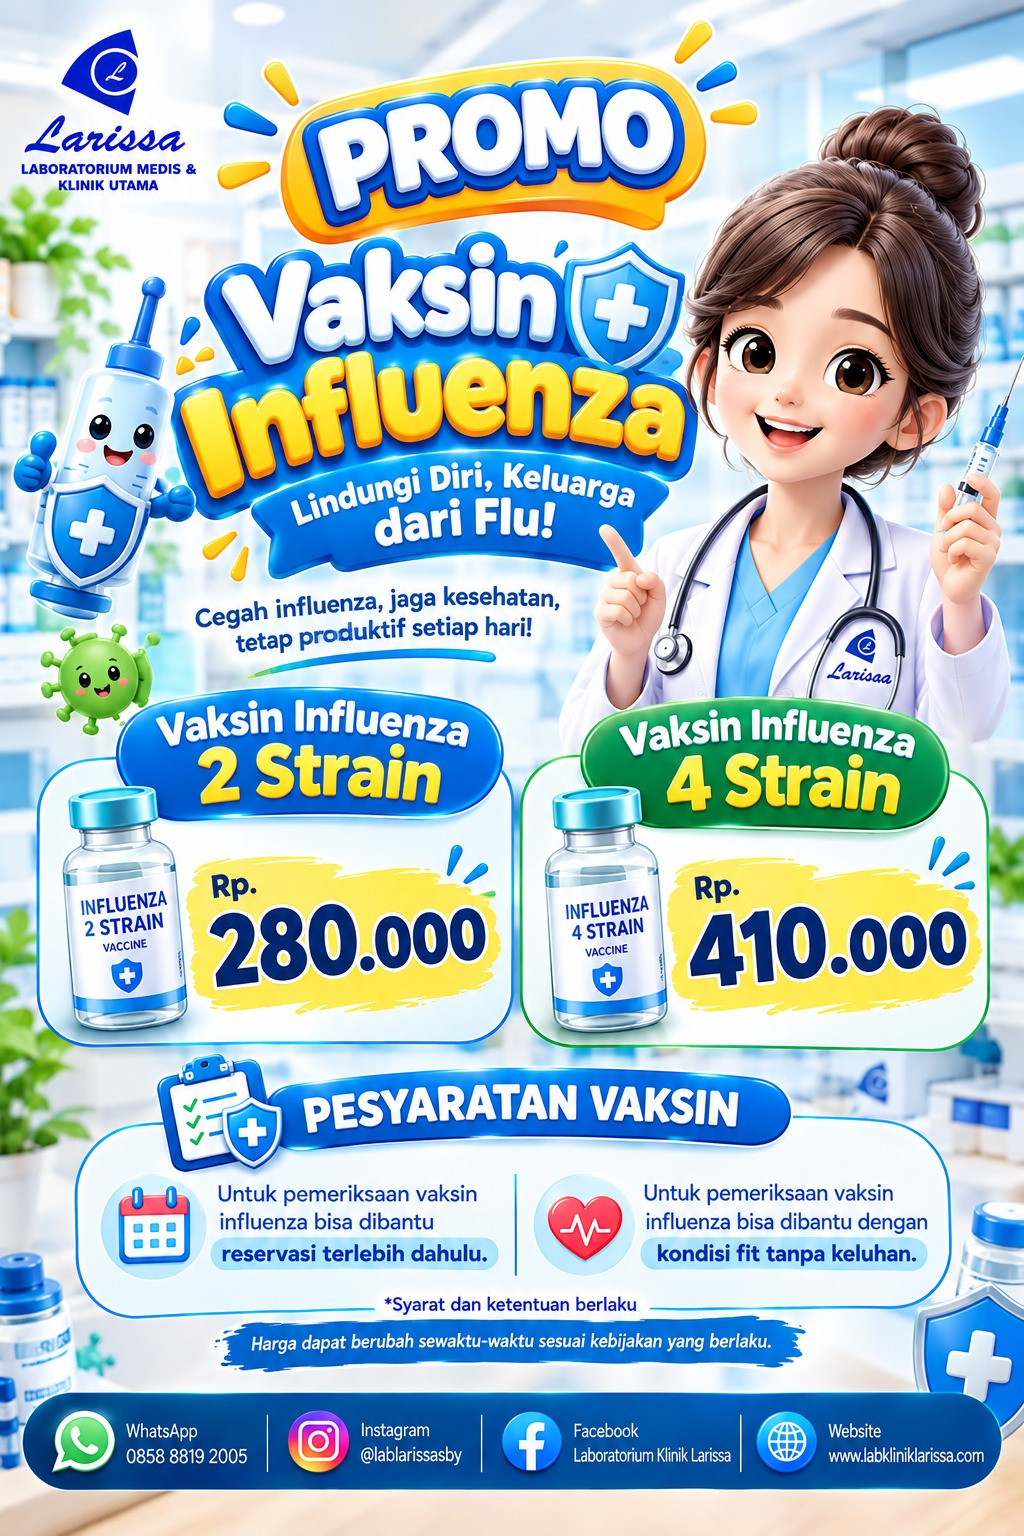
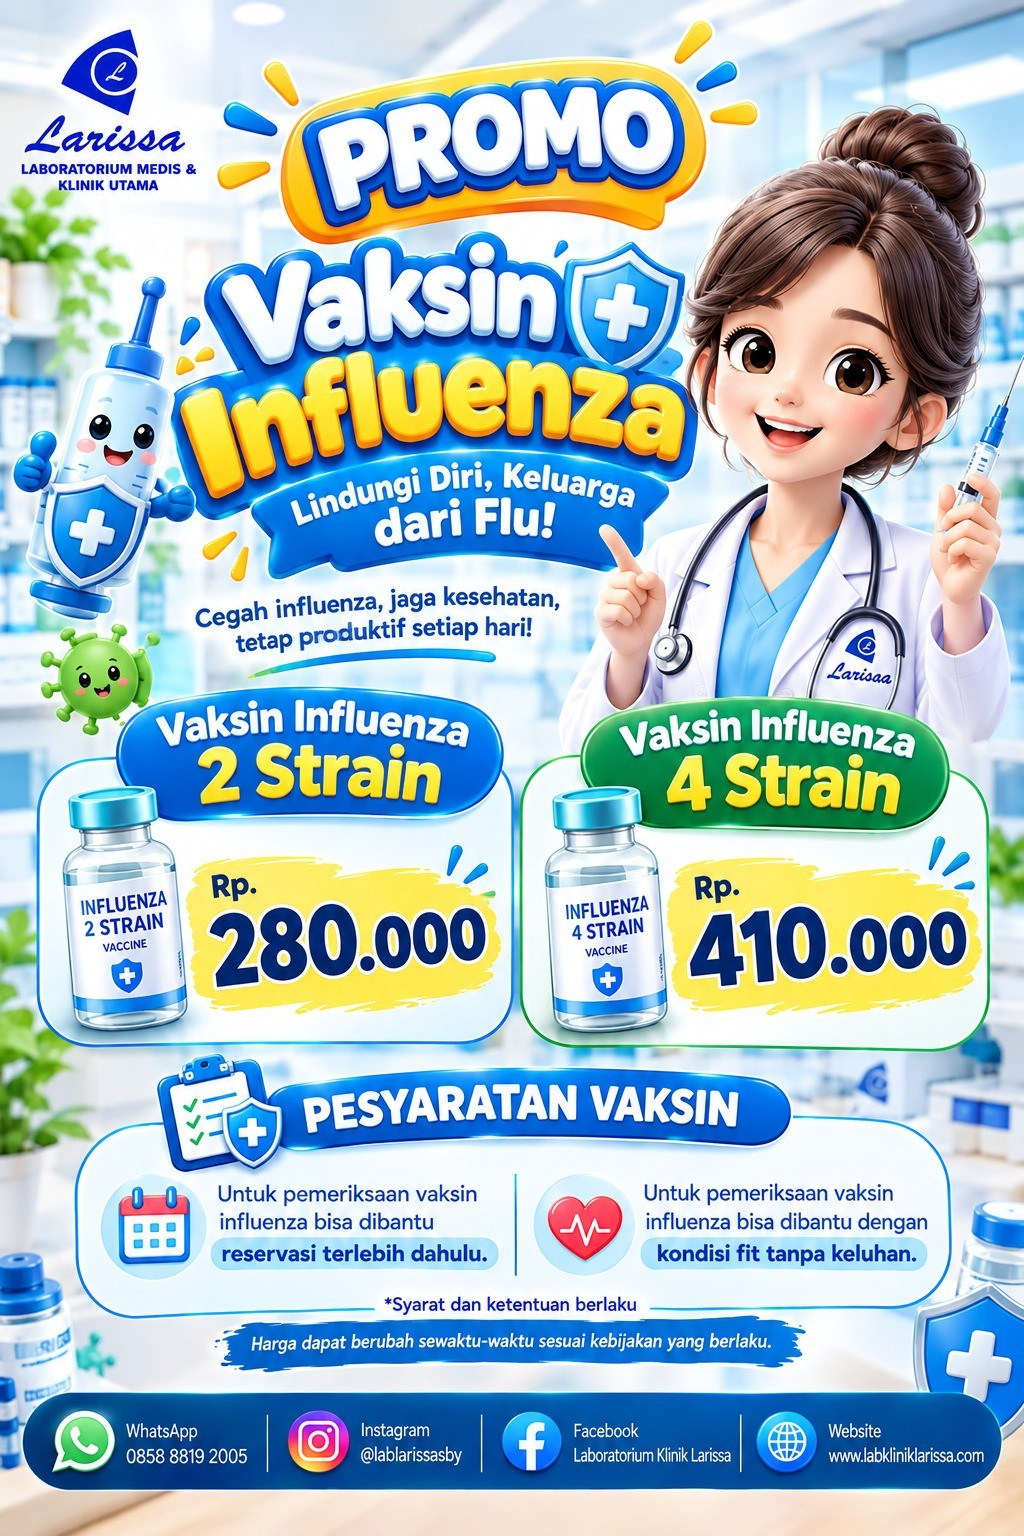
Promo: show only Vaksin Influenza poster (single layout)

diff --git a/index.html b/index.html
@@ -315,27 +315,22 @@
       <section id="promo" class="section section-alt">
         <div class="container">
           <header class="section-head center">
-            <p class="eyebrow eyebrow-accent">Promo &amp; Paket Spesial</p>
-            <h2>Penawaran kesehatan pilihan bulan ini</h2>
-            <p class="section-sub">Ketuk poster untuk info &amp; daftar langsung via WhatsApp.</p>
+            <p class="eyebrow eyebrow-accent">Promo Vaksin Influenza</p>
+            <h2>Lindungi diri &amp; keluarga dari flu</h2>
+            <p class="section-sub">Vaksin Influenza <b>2 Strain Rp 280.000</b> · <b>4 Strain Rp 410.000</b>. Ketuk poster untuk reservasi via WhatsApp.</p>
           </header>
 
-          <div class="promo-gallery promo-gallery-2">
-            <a class="promo-poster-card" href="https://wa.me/6285888192005?text=Halo%20Larissa%2C%20saya%20mau%20Promo%20Injeksi%20Vitamin%20C%20(Rp%20150.000)" target="_blank" rel="noopener">
-              <img src="/images/promo/vitamin-c.jpeg" alt="Injeksi Vitamin C — Tingkatkan imun & jaga daya tahan tubuh, hanya Rp 150.000" loading="lazy" onerror="this.closest('.promo-poster-card').classList.add('is-empty')" />
-            </a>
-            <a class="promo-poster-card" href="https://wa.me/6285888192005?text=Halo%20Larissa%2C%20saya%20mau%20Promo%20Vaksin%20Influenza%20(2%20Strain%20Rp%20280.000%20%2F%204%20Strain%20Rp%20410.000)" target="_blank" rel="noopener">
-              <img src="/images/promo/vaksin-influenza.jpeg" alt="Promo Vaksin Influenza — 2 Strain Rp 280.000, 4 Strain Rp 410.000" loading="lazy" onerror="this.closest('.promo-poster-card').classList.add('is-empty')" />
-            </a>
-          </div>
+          <a class="promo-single" href="https://wa.me/6285888192005?text=Halo%20Larissa%2C%20saya%20mau%20reservasi%20Vaksin%20Influenza%20(2%20Strain%20Rp%20280.000%20%2F%204%20Strain%20Rp%20410.000)" target="_blank" rel="noopener">
+            <img src="/images/promo/vaksin-influenza.jpeg" alt="Promo Vaksin Influenza — 2 Strain Rp 280.000, 4 Strain Rp 410.000" loading="lazy" onerror="this.closest('.promo-single').classList.add('is-empty')" />
+          </a>
 
           <div class="promo-cta-row">
-            <a class="btn btn-primary btn-lg" href="https://wa.me/6285888192005?text=Halo%20Larissa%2C%20saya%20ingin%20info%20%26%20daftar%20Promo%20Medical%20Check%20Up%20Paket%20Hemat%20(Rp%20295.000)" target="_blank" rel="noopener">
+            <a class="btn btn-primary btn-lg" href="https://wa.me/6285888192005?text=Halo%20Larissa%2C%20saya%20ingin%20reservasi%20Vaksin%20Influenza" target="_blank" rel="noopener">
               <svg viewBox="0 0 24 24" fill="currentColor" aria-hidden style="width:20px;height:20px"><path d="M12.04 2C6.58 2 2.13 6.44 2.13 11.9c0 2.1.55 4.15 1.6 5.96L2 22l4.27-1.12a9.9 9.9 0 0 0 4.77 1.21h.01c5.46 0 9.9-4.44 9.9-9.9 0-2.65-1.03-5.13-2.9-7C17.18 3.03 14.69 2 12.04 2zm5.69 14.04c-.24.68-1.4 1.3-1.96 1.39-.5.08-1.14.12-1.84-.12-.42-.13-.97-.31-1.66-.62-2.93-1.27-4.84-4.22-4.98-4.42-.15-.2-1.19-1.58-1.19-3.02 0-1.43.76-2.13.99-2.42.24-.29.51-.36.69-.36h.5c.16 0 .37-.06.58.44.24.58.79 2.01.86 2.16.07.15.12.32.02.51-.09.2-.15.31-.29.48-.15.17-.31.39-.43.52-.15.16-.3.34-.13.66.17.32.76 1.25 1.63 2.03 1.12 1 2.06 1.31 2.36 1.46.29.15.46.13.63-.07.18-.2.74-.86.94-1.16.19-.29.39-.24.65-.15.27.1 1.69.8 1.98.94.29.15.49.22.56.34.07.13.07.75-.17 1.43z"/></svg>
-              Tanya / Daftar Promo Sekarang
+              Reservasi Vaksin Sekarang
             </a>
           </div>
-          <p class="promo-terms">*Syarat &amp; ketentuan berlaku · Untuk vaksin &amp; injeksi disarankan reservasi terlebih dahulu · Info &amp; pendaftaran: 0858 8819 2005 · Telp. 031-8701769</p>
+          <p class="promo-terms">*Syarat &amp; ketentuan berlaku · Reservasi terlebih dahulu &amp; kondisi fit tanpa keluhan · Harga dapat berubah sewaktu-waktu · Info &amp; pendaftaran: 0858 8819 2005 · Telp. 031-8701769</p>
         </div>
       </section>
 
